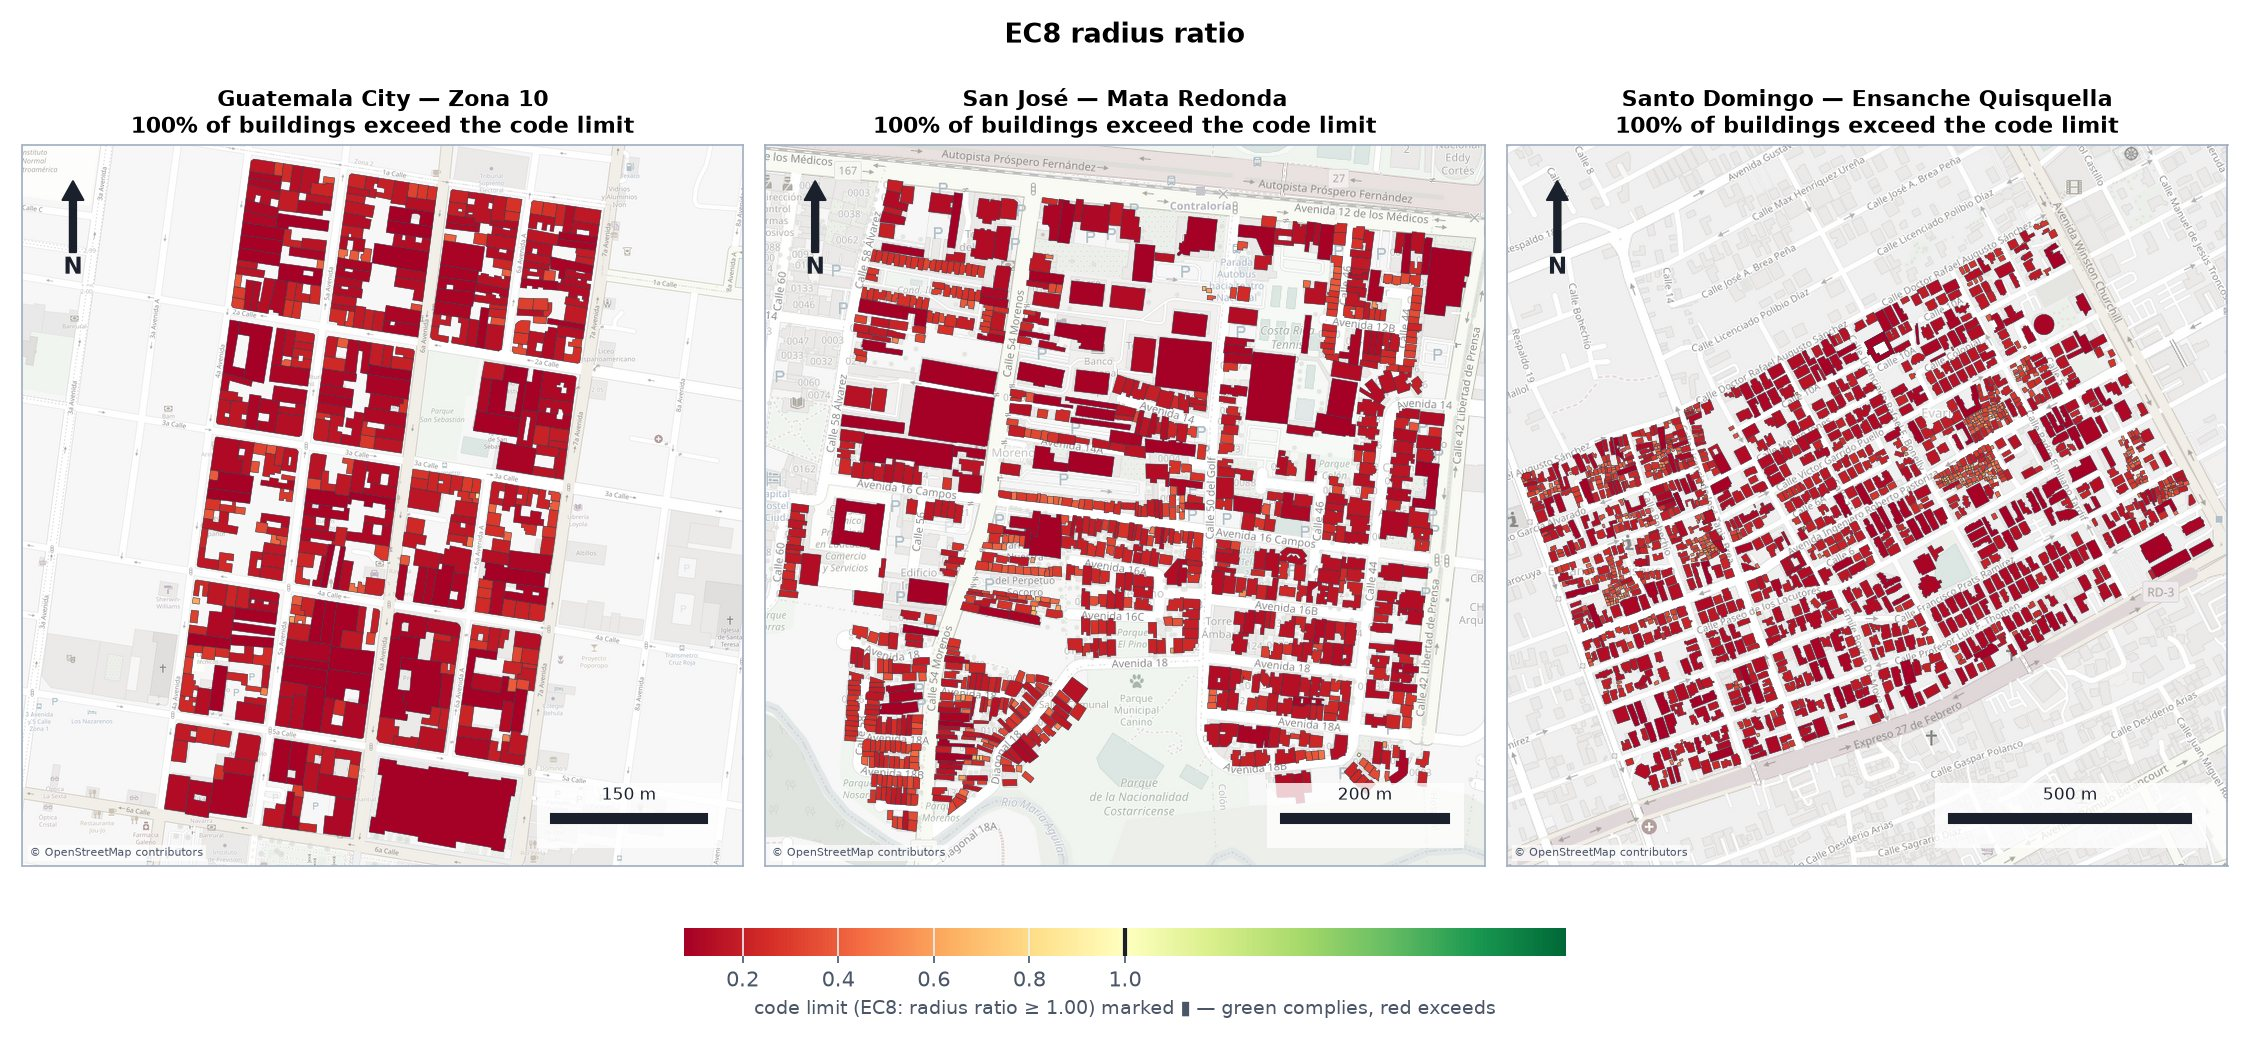
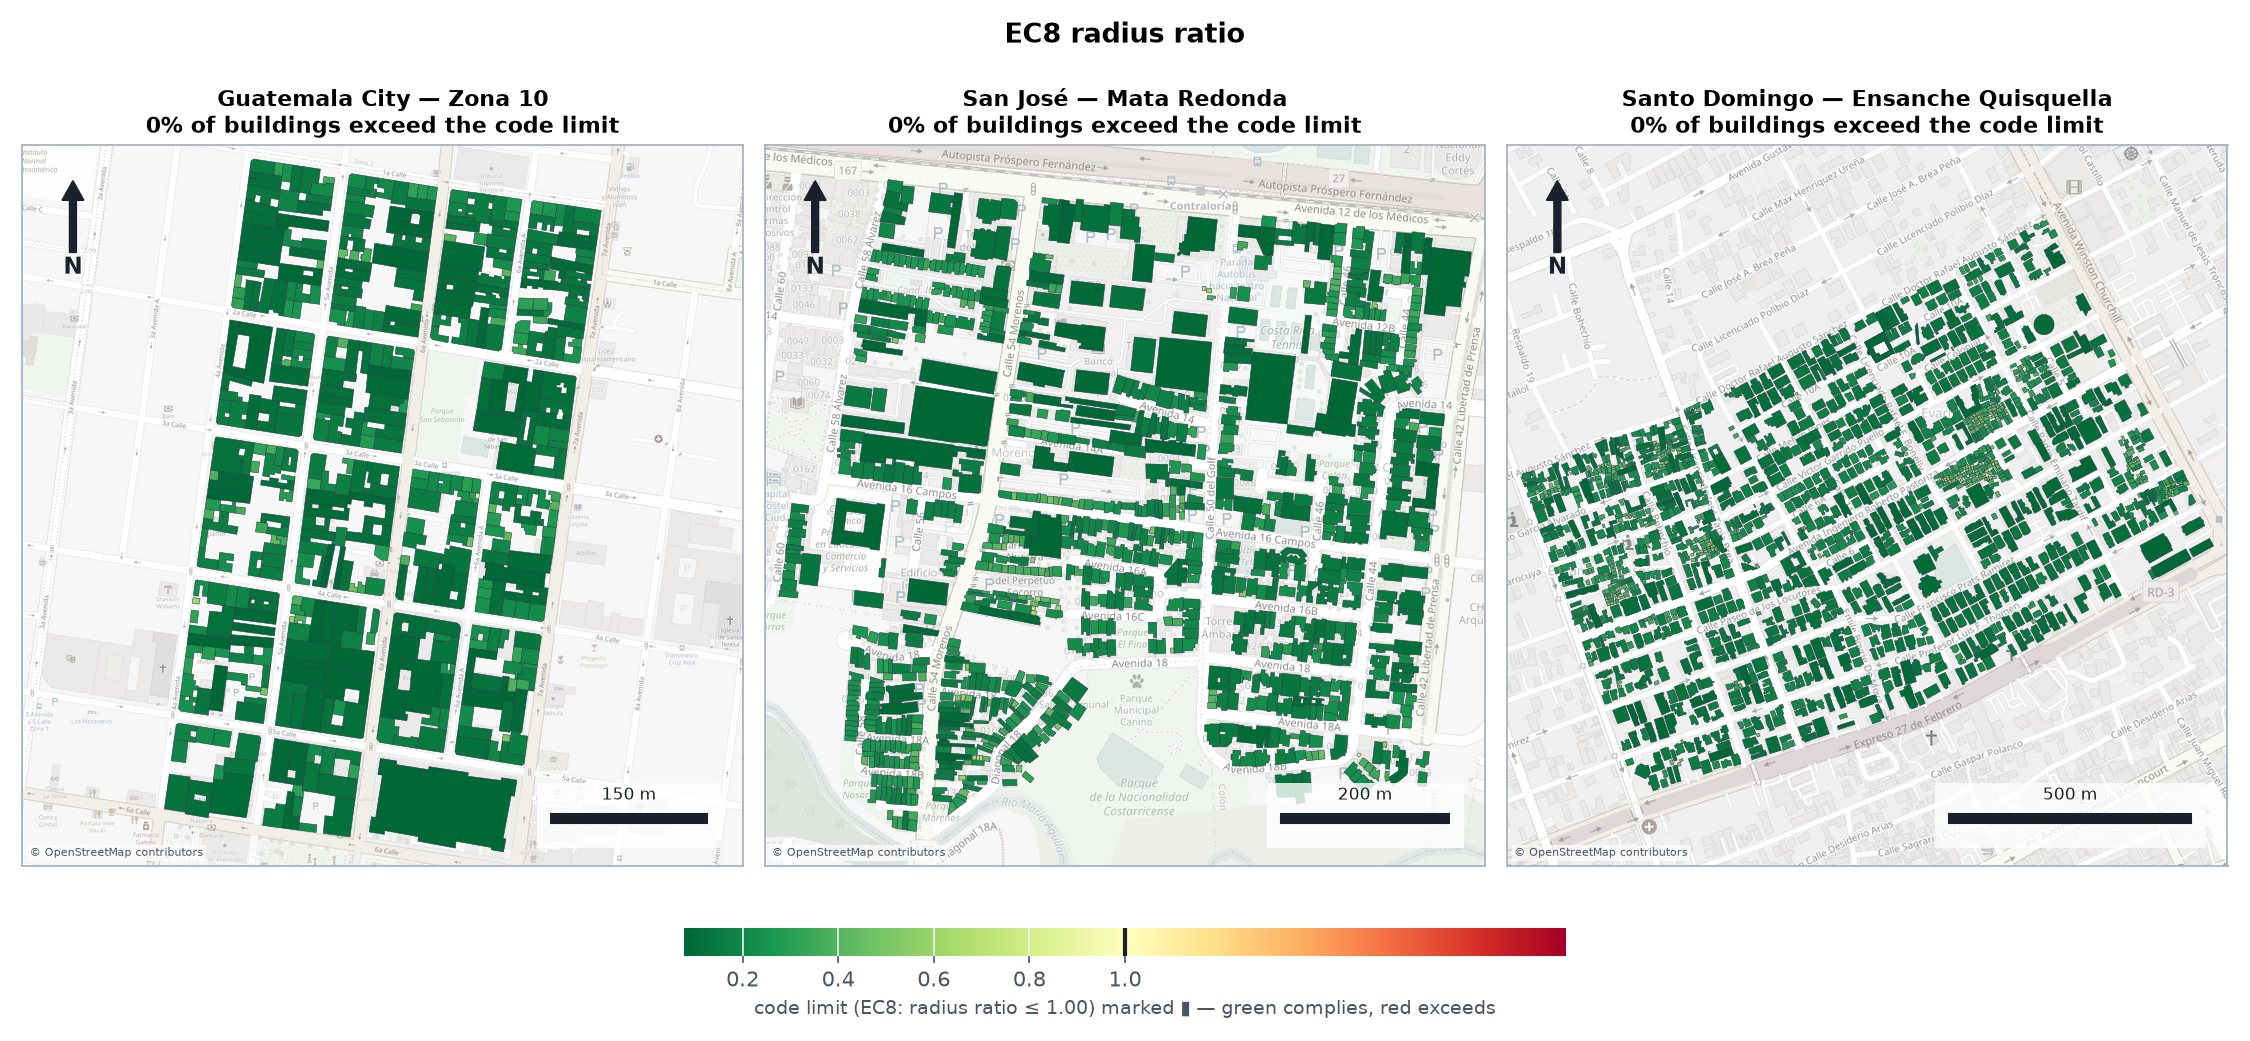
EC8 radius ratio debug

diff --git a/docs/_static/interactive/shape/main.js b/docs/_static/interactive/shape/main.js
@@ -40,19 +40,19 @@ function updateTitle(datasetId) {
 const NORM_INFO = {
   slenderness_bbox: { limit: 4.0, worseIsHigh: true, unit: "", criteria: "EC8: slenderness (bbox) ≤ 4.0" },
   slenderness_inertia: { limit: 4.0, worseIsHigh: true, unit: "", criteria: "EC8: slenderness (inertia) ≤ 4.0" },
-  GNDTII_beta1_mainShapeSlenderness: { limit: 0.4, worseIsHigh: false, unit: "", criteria: "GNDT-II β1 ≥ 0.8" },
-  GNDTII_beta2_setbackRatio: { limit: 0.3, worseIsHigh: true, unit: "", criteria: "GNDT-II β2 ≤ 0.1" },
-  GNDTII_beta4_eccentricityRatio: { limit: 0.4, worseIsHigh: true, unit: "", criteria: "GNDT-II β4 ≤ 0.2" },
-  GNDTII_beta6_setbackSlenderness: { limit: 0.25, worseIsHigh: false, unit: "", criteria: "GNDT-II β6 ≥ 0.5" },
+  GNDTII_beta1_mainShapeSlenderness: { limit: 0.4, worseIsHigh: false, unit: "", criteria: "GNDT-II β1 ≥ 0.4 (grade D fails)" },
+  GNDTII_beta2_setbackRatio: { limit: 0.3, worseIsHigh: true, unit: "", criteria: "GNDT-II β2 ≤ 0.3 (grade D fails)" },
+  GNDTII_beta4_eccentricityRatio: { limit: 0.4, worseIsHigh: true, unit: "", criteria: "GNDT-II β4 ≤ 0.4 (grade C fails)" },
+  GNDTII_beta6_setbackSlenderness: { limit: 0.25, worseIsHigh: false, unit: "", criteria: "GNDT-II β6 ≥ 0.25 (grade C fails)" },
   ASCE7_setbackRatio: { limit: 0.2, worseIsHigh: true, unit: "", criteria: "ASCE 7: setback ratio ≤ 0.20" },
   ASCE7_holeRatio: { limit: 0.25, worseIsHigh: true, unit: "", criteria: "ASCE 7: hole ratio ≤ 0.25" },
-  ASCE7_parallelityAngle: { limit: 10, worseIsHigh: true, unit: "°", criteria: "ASCE 7: angle ≤ 5°" },
+  ASCE7_parallelityAngle: { limit: 10, worseIsHigh: true, unit: "°", criteria: "ASCE 7: angle ≤ 10° (triangular fails)" },
   EC8_eccentricityRatio: { limit: 0.3, worseIsHigh: true, unit: "", criteria: "EC8: eccentricity ≤ 0.30" },
   EC8_radiusRatio: { limit: 1.0, worseIsHigh: true, unit: "", criteria: "EC8: radius ratio ≤ 1.00" },
   EC8_compactness: { limit: 0.95, worseIsHigh: false, unit: "", criteria: "EC8: compactness ≥ 0.95" },
   NTC23_setbackRatio: { limit: 0.4, worseIsHigh: true, unit: "", criteria: "NTC-23: setback ratio ≤ 0.40" },
   NTC23_holeRatio: { limit: 0.4, worseIsHigh: true, unit: "", criteria: "NTC-23: hole ratio ≤ 0.40" },
-  CSCR2010_eccentricityRatio: { limit: 0.25, worseIsHigh: true, unit: "", criteria: "CSCR-2010: eccentricity ≤ 0.05" },
+  CSCR2010_eccentricityRatio: { limit: 0.25, worseIsHigh: true, unit: "", criteria: "CSCR-2010: eccentricity ≤ 0.25 (high risk fails)" },
 };
 
 // Video-cycle order: shape index first (per the brief), then round-robin

diff --git a/docs/docs_maps_and_plots.py b/docs/docs_maps_and_plots.py
@@ -686,15 +686,19 @@ def detail_maps(data) -> None:
         )
         sel = sel.reset_index(drop=True)
         edges, res = contact_force_vectors(sel, buffer=0.1)
+        # contact_force_vectors' raw vectors point FROM the subject building
+        # TOWARD the neighbour pressing on it -- flip 180 deg (negative
+        # scale) so the arrow reads as "the push this building receives",
+        # matching docs/prepare_interactive_data.py's own fix.
         if len(edges):
             a = np.stack(edges["anchor"].to_numpy())
-            v = np.stack(edges["vector"].to_numpy()) * 0.3
+            v = -np.stack(edges["vector"].to_numpy()) * 0.3
             arrow_gdf(a, v, sel.crs, centered=False, head_frac=0.3).to_crs(3857).plot(
                 ax=ax, color="#4a5568", linewidth=0.6, zorder=3
             )
         if len(res):
             a = np.stack(res["anchor"].to_numpy())
-            v = np.stack(res["vector"].to_numpy()) * 0.3
+            v = -np.stack(res["vector"].to_numpy()) * 0.3
             arrow_gdf(a, v, sel.crs, centered=False, head_frac=0.3).to_crs(3857).plot(
                 ax=ax, color=INK, linewidth=1.6, zorder=4
             )
@@ -1010,10 +1014,13 @@ def fig_position(data) -> None:
         e0 = edges[edges["geom_id"] == 0]
         r0 = resultants[resultants["geom_id"] == 0]
         vmax = max([np.linalg.norm(v) for v in e0["vector"]] + [1e-9])
+        # contact_force_vectors' raw vectors point FROM the subject building
+        # TOWARD the neighbour pressing on it -- flip 180 deg so the arrow
+        # reads as "the push this building receives".
         if len(e0):
             arrow_gdf(
                 np.stack(e0["anchor"]),
-                np.stack(e0["vector"]) / vmax * scale,
+                -np.stack(e0["vector"]) / vmax * scale,
                 gdf.crs,
                 centered=False,
                 head_frac=0.3,
@@ -1021,7 +1028,7 @@ def fig_position(data) -> None:
         if len(r0) and np.linalg.norm(r0["vector"].iloc[0]) > 1e-6:
             arrow_gdf(
                 np.stack(r0["anchor"]),
-                np.stack(r0["vector"]) / vmax * scale,
+                -np.stack(r0["vector"]) / vmax * scale,
                 gdf.crs,
                 centered=False,
                 head_frac=0.3,

diff --git a/src/footprint_attributes/visualization/maps.py b/src/footprint_attributes/visualization/maps.py
@@ -43,9 +43,9 @@ _NORM_SPECS = [
         "EC8_radiusRatio",
         "EC8 radius ratio",
         1.0,
-        False,
+        True,
         "",
-        "EC8: radius ratio >= 1.00",
+        "EC8: radius ratio <= 1.00",
         "EC8",
     ),
     (
@@ -81,7 +81,7 @@ _NORM_SPECS = [
         10,
         True,
         "°",
-        "ASCE 7: angle <= 5°",
+        "ASCE 7: angle <= 10° (triangular fails)",
         "ASCE7",
     ),
     (
@@ -90,7 +90,7 @@ _NORM_SPECS = [
         0.4,
         False,
         "",
-        "GNDT-II β1 >= 0.8",
+        "GNDT-II β1 >= 0.4 (grade D fails)",
         "GNDTII",
     ),
     (
@@ -99,7 +99,7 @@ _NORM_SPECS = [
         0.3,
         True,
         "",
-        "GNDT-II β2 <= 0.1",
+        "GNDT-II β2 <= 0.3 (grade D fails)",
         "GNDTII",
     ),
     (
@@ -108,7 +108,7 @@ _NORM_SPECS = [
         0.4,
         True,
         "",
-        "GNDT-II β4 <= 0.2",
+        "GNDT-II β4 <= 0.4 (grade C fails)",
         "GNDTII",
     ),
     (
@@ -117,7 +117,7 @@ _NORM_SPECS = [
         0.25,
         False,
         "",
-        "GNDT-II β6 >= 0.5",
+        "GNDT-II β6 >= 0.25 (grade C fails)",
         "GNDTII",
     ),
     (
@@ -126,7 +126,7 @@ _NORM_SPECS = [
         0.25,
         True,
         "",
-        "CSCR-2010: eccentricity <= 0.05",
+        "CSCR-2010: eccentricity <= 0.25 (high risk fails)",
         "CSCR2010",
     ),
     (

diff --git a/src/footprint_attributes/config.py b/src/footprint_attributes/config.py
@@ -40,10 +40,12 @@ EC8_LIMITS: dict[str, list[dict]] = {
         {"max": 0.30, "label": "regular", "score": 100},
         {"max": math.inf, "label": "irregular", "score": 0},
     ],
-    # radius_ratio  r_t / r_g  ≥ 1.0  (inverted: non-compliance if < 1)
+    # radius_ratio  r_t / r_g  ≤ 1.0 (Ureña-Pliego et al. 2026, Table 1 -- this
+    # package's own dimensionless r_t/r_g proxy is calibrated against this
+    # threshold, not the raw Eurocode 8 stiffness-based r_x >= l_s clause)
     "radiusRatio": [
-        {"max": 1.00, "label": "irregular", "score": 0},  # < 1 → fail
-        {"max": math.inf, "label": "regular", "score": 100},
+        {"max": 1.00, "label": "regular", "score": 100},
+        {"max": math.inf, "label": "irregular", "score": 0},  # > 1 → fail
     ],
     # compactness  ≥ 0.95  (stored as 1 − max_setback/area)
     "compactness": [

diff --git a/docs/formulas.rst b/docs/formulas.rst
@@ -490,7 +490,7 @@ the building twists instead of translating.
 
    ``EC8_eccentricityRatio``. Green complies with the code limit, red exceeds it; the share of buildings exceeding the limit is given above each region.
 
-**EC8_radiusRatio** (:math:`r_t/r_g`), limit :math:`\ge 1.0`:
+**EC8_radiusRatio** (:math:`r_t/r_g`), limit :math:`\le 1.0` (Ureña-Pliego et al. 2026, Table 1):
 
 .. math::
 
